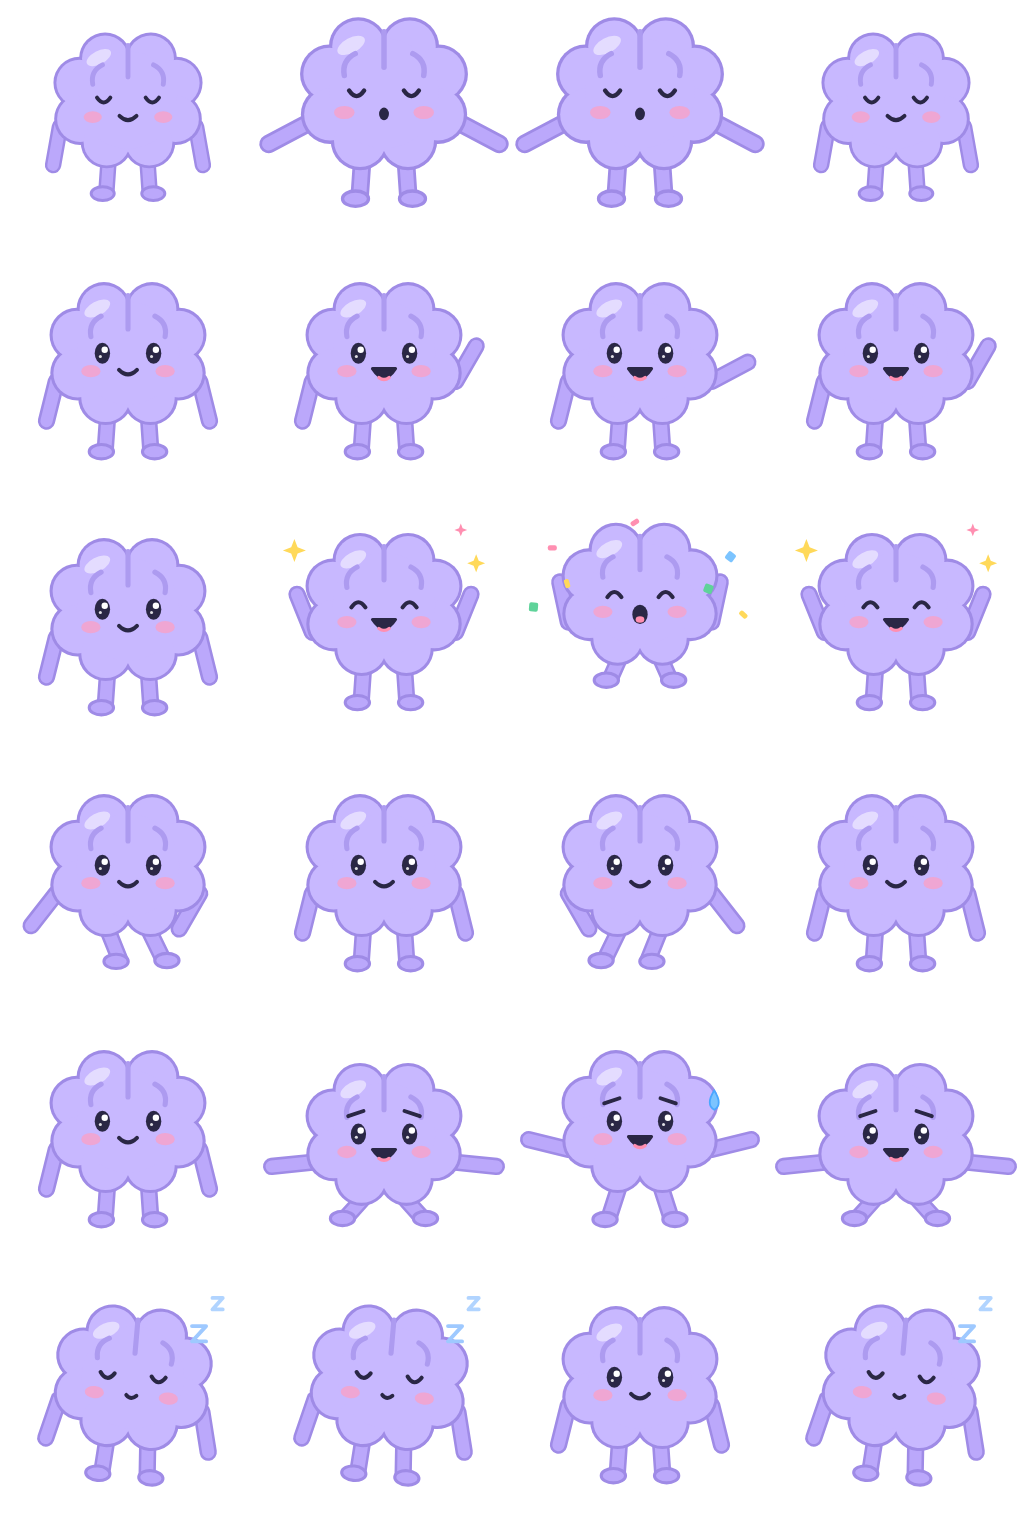
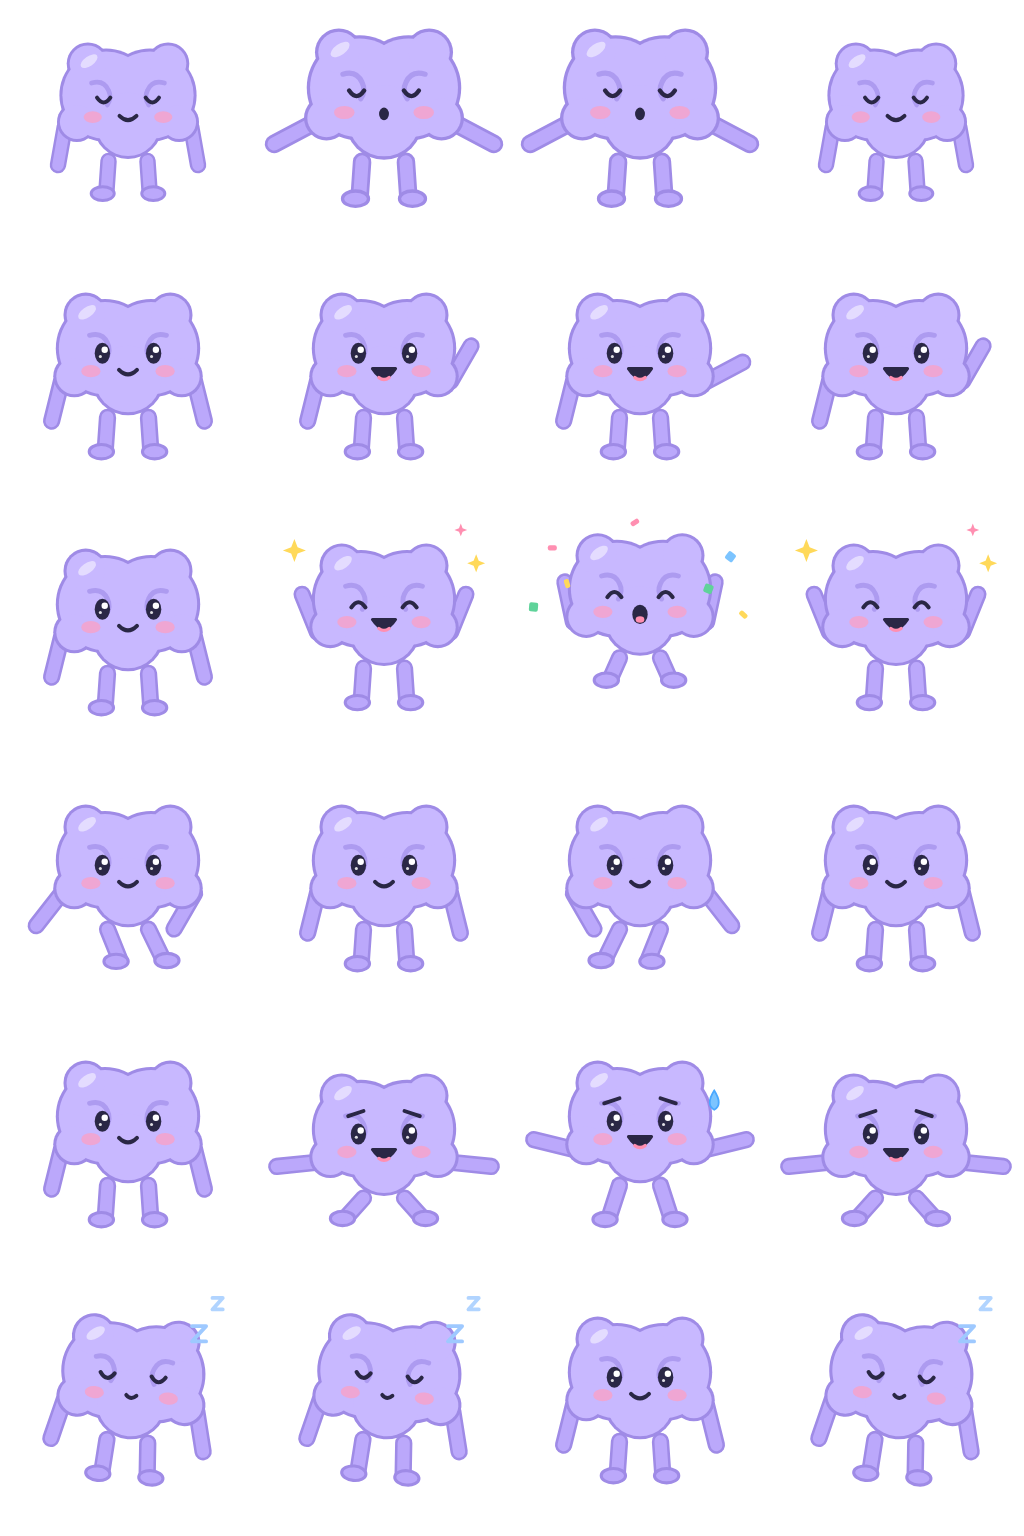
Pal: brain silhouette (two hemispheres with a top notch, no centre line, minimal folds)
Claude-Session: https://claude.ai/code/session_01NENw22NRLju7qRwaXWFpgL

diff --git a/src/lib/pal.ts b/src/lib/pal.ts
@@ -54,8 +54,9 @@ const f = (n: number) => Math.round(n * 10) / 10
 
 // silhouette: a chubby brain seen from the front: two hemispheres made of soft round lobes, a notch at the top and bottom
 type Blob = readonly [number, number, number]
-const bump = (deg: number, side: 1 | -1): Blob => { const a = (deg * Math.PI) / 180; return [f(100 + side * 43 * Math.cos(a)), f(76 + 38 * Math.sin(a)), 19] }
-const BLOBS: Blob[] = [...[-64, -22, 24, 66].flatMap(d => [bump(d, 1), bump(d, -1)]), [100, 76, 40]]
+// two big hemispheres (notch where they meet), a few small bumps on the top and sides, smooth underneath
+const HALF: Blob[] = [[82, 72, 36], [67, 46, 15], [58, 94, 14]]
+const BLOBS: Blob[] = [...HALF, ...HALF.map(([x, y, r]): Blob => [200 - x, y, r]), [100, 96, 26]]
 const circles = (extra: number) => BLOBS.map(([x, y, r]) => `<circle cx="${x}" cy="${y}" r="${f(r + extra)}"/>`).join('')
 
 function limb(x0: number, y0: number, angle: number, len: number, side: -1 | 1, name: string) {
@@ -127,12 +128,11 @@ export function poseSpec(name: PoseName): PoseSpec { return { ...BASE, ...(POSES
 export function palBody(name: PoseName): string {
   const p = poseSpec(name)
   const shoulderY = 98
-  const arms = limb(44, shoulderY, p.armL, 32, -1, 'arm armL') + limb(156, shoulderY, p.armR, 32, 1, 'arm armR')
+  const arms = limb(48, shoulderY, p.armL, 32, -1, 'arm armL') + limb(152, shoulderY, p.armR, 32, 1, 'arm armR')
   const body = `<g fill="${C.edge}">${circles(2.4)}</g><g fill="${C.body}">${circles(0)}</g>
-    <g fill="${C.hi}" opacity=".75"><ellipse cx="76" cy="41" rx="11" ry="5.5" transform="rotate(-28 76 41)"/></g>
-    <g fill="none" stroke="${C.fold}" stroke-width="4" stroke-linecap="round" stroke-linejoin="round">
-      <path d="M100 31v26"/>
-      <path d="M121 47q10 5 8 16"/><path d="M79 47q-10 5 -8 16"/>
+    <g fill="${C.hi}" opacity=".75"><ellipse cx="68" cy="44" rx="8" ry="4" transform="rotate(-35 68 44)"/></g>
+    <g fill="none" stroke="${C.fold}" stroke-width="3.8" stroke-linecap="round" stroke-linejoin="round">
+      <path d="M70 62q10 -3 14 6q3 6 -1 12"/><path d="M130 62q-10 -3 -14 6q-3 6 1 12"/>
     </g>`
   const face = `<ellipse cx="71" cy="90" rx="7.5" ry="4.8" fill="${C.cheek}" opacity=".7"/><ellipse cx="129" cy="90" rx="7.5" ry="4.8" fill="${C.cheek}" opacity=".7"/>${brows(p.brows)}<g class="eyes">${eyes(p.eyes)}</g>${mouth(p.mouth)}`
   const cx = 100, cy = 100
